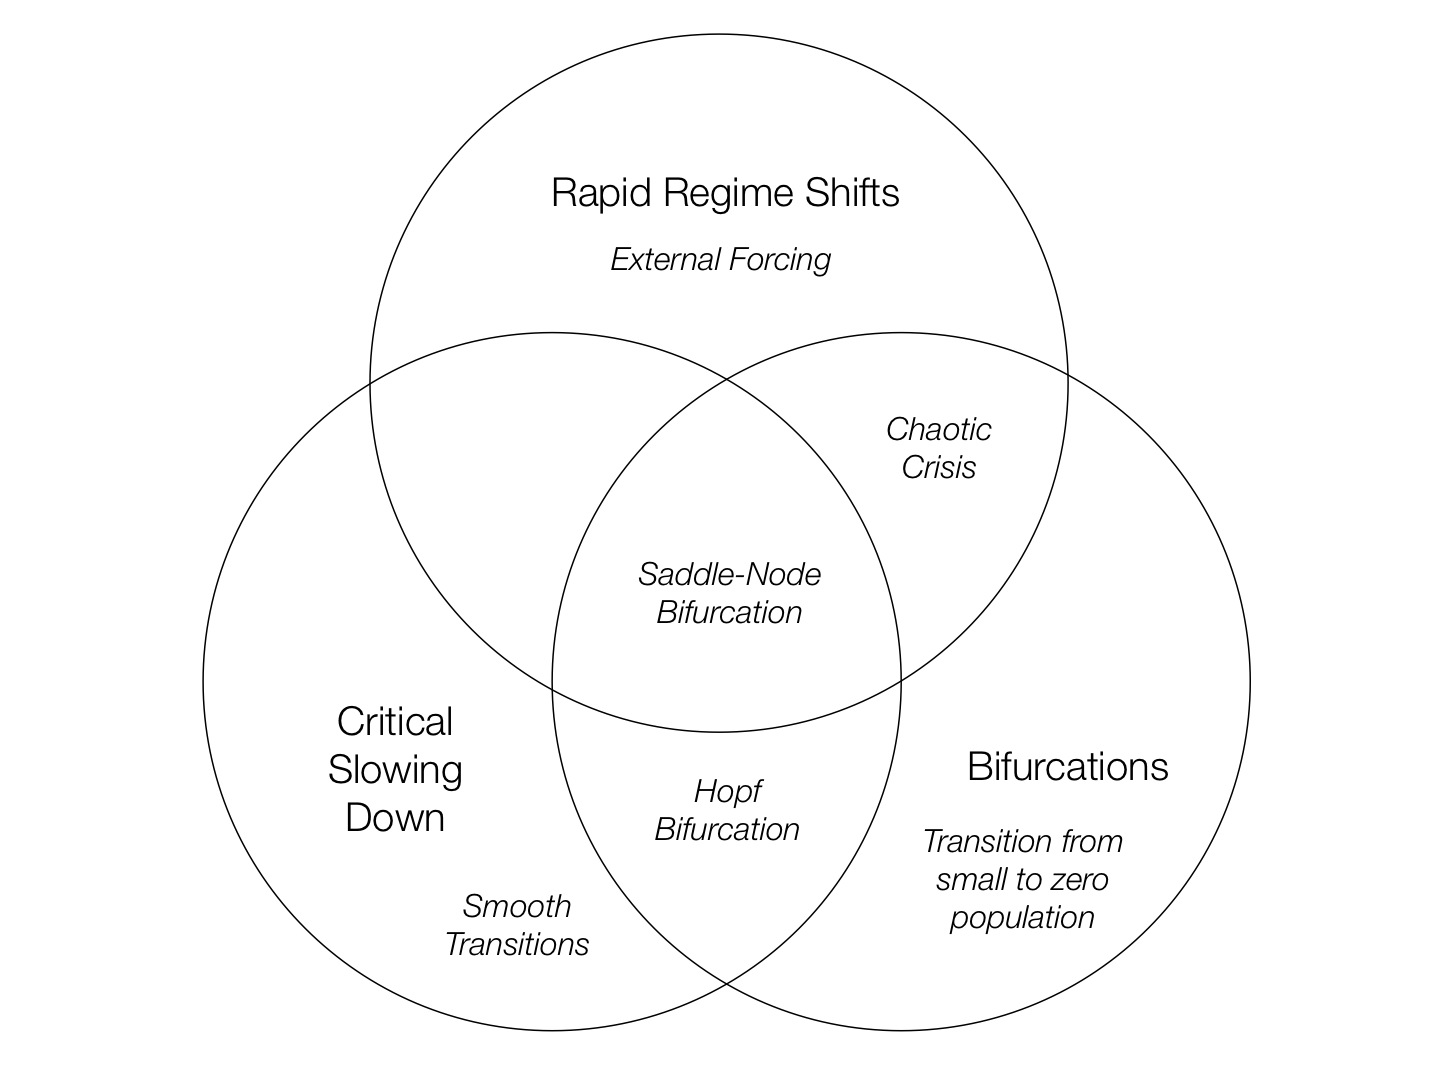
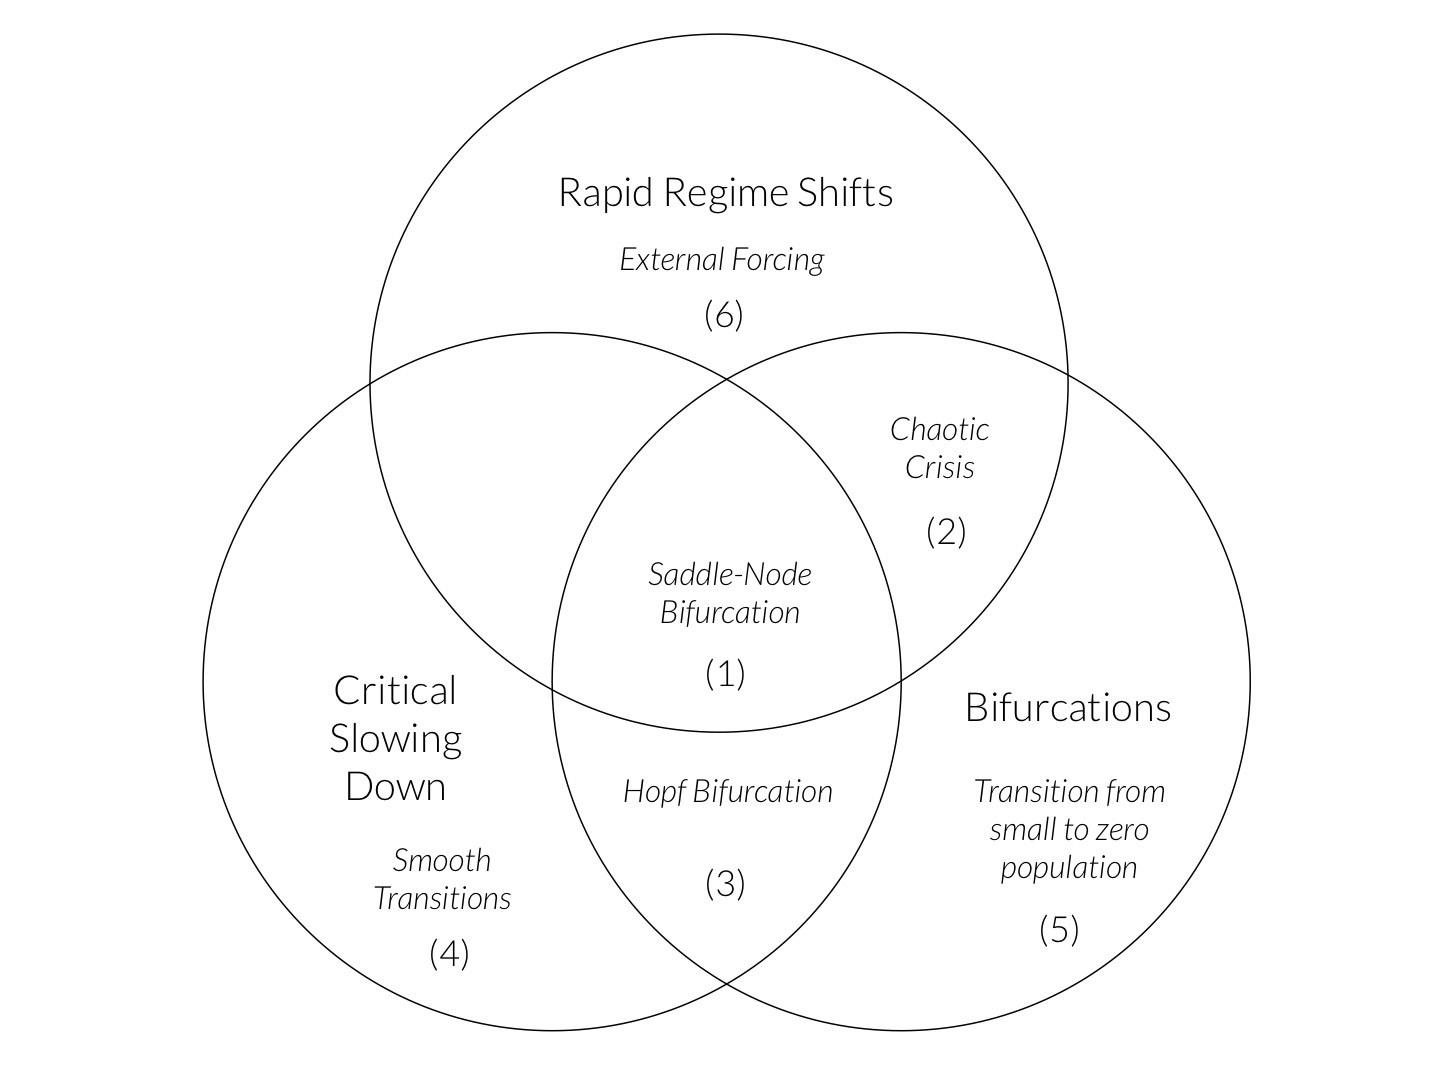
updated diagram, added section for no bifurcation

diff --git a/manuscript-w-refs.md b/manuscript-w-refs.md
@@ -18,7 +18,7 @@ have the right model -- and that meant having already had the chance to observe
 the transition (even then this remains a tough problem). One cogent early
 example (Ludwig et al. 1978) demonstrated how knowledge of the forms and time
 scales of interactions among insects, birds, and trees could lead to a
-qualitative model that predicted the possibility of essentially regime shifts.
+qualitative model that essentially predicted the possibility of regime shifts.
 
 Management of systems that could potentially undergo shifts requires balancing
 the costs of adaptation, mitigation or avoidance against the costs of the shift
@@ -38,7 +38,7 @@ the questions of when such generic signals would be valuable tools versus the
 need to develop system-specific approaches in all cases.
 
 Foundational research in early warning signals identified certain patterns such
-as which can accurately forecast a sudden transition in a wide variety of
+as those which can accurately forecast a sudden transition in a wide variety of
 systems (Scheffer et al. 2009). Most extensively researched is the phenomenon of
 critical slowing down (CSD), which is manifested as a pattern of increasing
 variance or autocorrelation of a system. Subsequent work has begun to identify a
@@ -70,23 +70,23 @@ Relationships between Critical Slowing Down, Bifurcations, and Regime Shifts
 
 ***A general thought while rewriting in this section. Whenever applicable,
 replace CSD with "early warning signal", to make the point that we are only
-using CSD as an example of possible warning signals***.
+using CSD as an example of possible warning signals.***. **Agreed**\*
 
 ***I think each of the sections could use a format of "what we expected", "what
 is surprising" and "more research to answer xyz". We kind of jump into each of
 the examples without a lot of "so what". Highlighting which areas of the diagram
-are most ripe for exploration would be particularly useful I think. -CB***\*
+are most ripe for exploration would be particularly useful I think. -CB***
 
-Critical slowing down has been studied extensively in theoretical (Wissel 1984,
-Gandhi et al. 1998, Carpenter et al. 2006, Hastings and Wysham 2010, Dakos et
-al. 2011a, Lade and Gross 2012, Boettiger and Hastings 2012a) and empirical
-contexts (Drake and Griffen 2010, Veraart et al. 2011, Carpenter 2011a, Dai et
-al. 2012, Wang et al. 2012) as a potential early warning signal for regime
-shifts. CSD occurs as a system's dominant eigenvalue approaches zero due to a
-changing (possibly deteriorating) environment. As the eigenvalue approaches
-zero, the system's response to small perturbations slows. This change in dynamic
-properties of a system can be expressed in greater variance, autocorrelation,
-and return time of observed state variables.
+Early warning signals such as CSD have been studied extensively in theoretical
+(Wissel 1984, Gandhi et al. 1998, Carpenter et al. 2006, Hastings and Wysham
+2010, Dakos et al. 2011a, Lade and Gross 2012, Boettiger and Hastings 2012a) and
+empirical contexts (Drake and Griffen 2010, Veraart et al. 2011, Carpenter
+2011a, Dai et al. 2012, Wang et al. 2012) as a potential early warning signal
+for regime shifts. CSD occurs as a system's dominant eigenvalue approaches zero
+due to a changing (possibly deteriorating) environment. As the eigenvalue
+approaches zero, the system's response to small perturbations slows. This change
+in dynamic properties of a system can be expressed in greater variance,
+autocorrelation, and return time of observed state variables.
 
 Figure 1 we illustrate the domains of overlap between three distinct phenomena.
 The first, *rapid regime shifts* are abrupt changes in system behavior. The
@@ -102,8 +102,8 @@ regions.
 shifts, bifurcations, and critical slowing down. Text in italic are example
 phenomena that occur in each domain.]
 
-Catastrophic Bifurcations Preceded by CSD
------------------------------------------
+Catastrophic Bifurcations Preceded by CSD (1)
+---------------------------------------------
 
 Much of the (most visible) recent research in early warning signals has focused
 on the center of the diagram, where all three concepts intersect. The warning
@@ -117,7 +117,7 @@ exhibiting a saddle-node bifurcation (Figure). Saddle-nodes are one of many
 potential bifurcations in ecological systems, though. Rapid regime shifts may
 also occur in the absence of bifurcations at all.
 
-***Insert figure of saddle-node bifurcation - NR***
+***Insert figure of saddle-node bifurcation(?) NR***
 
 Dai et al. (2012) clearly maps out the entire saddle-node bifurcation diagram
 empirically before presenting the corresponding decrease in recovery time
@@ -137,26 +137,37 @@ difficult to identify the bifurcation process, the system is understood well
 enough to anticipate that a sudden transition can be induced under the intended
 manipulation. Like the laboratory examples, this helps eliminate the options
 outside the circle "bifurcations", in Figure 1. The observed warning signals
-then place it in the center.
+then place it in the center of the diagram.
 
-Catastrophic Bifurcations *not* Preceded by CSD
------------------------------------------------
+While these studies have provided valuable demonstrations of the potential to
+find early warning signals of sudden transitions, this literature has begun to
+enumerate examples of similar tranistions in which no such signal is present.
+
+Catastrophic Bifurcations *not* Preceded by CSD (2)
+---------------------------------------------------
 
 Saddle nodes are only one of a variety of bifurcations which can cause rapid
 changes in system dynamics. Other bifurcations can cause long-term changes in
 system dynamics without a gradual pass through a state with zero eigenvalue, and
-therefore, not exhibit CSD.
+therefore, not exhibit CSD. Many of these examples can in fact show patterns in
+typical early warning indicator variables such as variance or autocorrelation
+that are completely opposite to the patterns seen above.
 
 These are some of the most problematic cases, because they represent disruptive
 but potentially avoidable events, but would not be detected by using CSD as an
 early warning signals.
+
+**\* Makes it sound like chaos is the only example. Chaos is dismissed by most
+ecologists as irrelevant, lacking evidence in most natural systems**\*
 
 One class of bifurcations in which we would not expect to see CSD prior to
 regime shift are sometimes known as *crises*. Crises are sudden changes in the
 dynamics of chaotic attractors that occur in response to small changes in
 parameters (Grebogi et al. 1983). Chaotic attractors are features of many
 ecological models (Hastings et al. 1993), and chaotic behavior has been shown in
-some ecological systems [@Constantino1997]
+some ecological systems [@Constantino1997]. Examples are not restricted to
+chaotic dynamics. Decreasing variance is observed before a sudden transition
+following a Hopf bifurcation in Schreiber and Rudolf (2008).
 
 Hastings and Wysham (2010) examined a continuous model of a stochastic
 three-species food chain where all species migrate between six patches. When
@@ -165,7 +176,7 @@ capacity) is low, all species coexist in a chaotic but stable attractor. A small
 increase in environmental stochasticity, though, causes extinction of the top
 predator and and rapid shift to a non-chaotic cycle. Despite an increase in
 environmental variability, neither the variance nor skew of the populations of
-any species change as the system approaches this bifurcation
+any species change as the system approaches this bifurcation.
 
 Another example of a chaotic crisis can be found in a simple discrete-time model
 where a population is subject to strong density dependence (an Allee effect) and
@@ -199,11 +210,8 @@ Such a transition occurs if the control parameter (e.g., rainfall), exceeds the
 individual location would undergo a saddle-node bifurcation, and thus the
 system's global dynamics would not exhibit CSD prior to such a transition.
 
-Non-Catastrophic Bifurcations Preceded by CSD
----------------------------------------------
-
-**TODO: Add a numeric reference connecting each section to a region of Figure
-1**
+Non-Catastrophic Bifurcations Preceded by CSD (3)
+-------------------------------------------------
 
 Not all regime shifts are rapid. Some systems undergo bifurcations between
 qualitatively different, but quantatively similar regimes. These transitions may
@@ -224,16 +232,6 @@ gradual as the cycle sizes grow from zero at the threshold value. In the
 presence of stochasticity, system behavior may be observed on either side of the
 threshold may be indistinguishable.
 
-![Figure 4: A system where critical slowing down is observed without a critical
-threshold, from Kéfi et al. (2012). In this model, prey have logistic growth and
-are subject to predation with a Type III functional response, but there is no
-bifurcation. Instead, average prey population exhibits a smooth response to
-increased predation. Left: The population level as a function of predation rate.
-Middle: Variance of the prey population level. Note that it increases during the
-transition, despite no bifurcation. Right: Lag-1 Autocorrelation in prey
-population dynamics as predation rate increases. Note that it, too, increases
-despite the lack of a bifurcation]
-
 The system's eigenvalue also passes through zero in the case of the
 transcritical bifurcation. The transcritical is a degenerate case of the the
 saddle-node, and occurs in many of the same systems. However, when a system
@@ -250,23 +248,39 @@ bifurcation by reducing food supplies and driving population growth rates below
 zero. Indicators of CSD (variation, skewness, autocorrelation, and spatial
 correlation) increased prior to collapse of the population.
 
-Non-Catastrophic Bifurcations without CSD
------------------------------------------
+CSD in the absence of bifurcations or regime shifts. (4)
+--------------------------------------------------------
 
-**TODO: Add a numeric reference connecting each section to a region of Figure
-1**
+Critical slowing down may appear in systems without any bifurcations. Kéfi et
+al. (2012) showed that smooth transitions that modify a system's potential and
+decrease the value of its dominant eigenvalue will result in longer return times
+and greater variance and autocorrelation in system behavior (See Figure 4). When
+the transition between states is smooth, these measures will exhibit a smooth
+increase to a maximum and then a decrease, unlike the sharp peaks found in
+systems with bifurcations. Nonetheless, both exhibit increasing measures of CSD
+which may be indistinguishable.
 
-Some bifurcations are much more mundane, involving neither catastrophic shifts
-or patterns of critical slowing down.
+![Figure 4: A system where critical slowing down is observed without a critical
+threshold, from Kéfi et al. (2012). In this model, prey have logistic growth and
+are subject to predation with a Type III functional response, but there is no
+bifurcation. Instead, average prey population exhibits a smooth response to
+increased predation. Left: The population level as a function of predation rate.
+Middle: Variance of the prey population level. Note that it increases during the
+transition, despite no bifurcation. Right: Lag-1 Autocorrelation in prey
+population dynamics as predation rate increases. Note that it, too, increases
+despite the lack of a bifurcation]
 
-**TODO: Anything here? Beyond a trivial change from positive to zero
-population**
+Non-Catastrophic Bifurcations without CSD (5)
+---------------------------------------------
 
-Catastrophic Regime Shifts without Bifurcations or CSD
-------------------------------------------------------
+Some bifurcations involving neither catastrophic shifts or patterns of critical
+slowing down. The transition from very small populations to zero is one such
+transition. System behavior after extinction is clearly different, and exhibits
+hysteresis. However, the transition, while not smooth, is not due to a
+saddle-node or similar bifurcation, and CSD would not be expected.
 
-**TODO: Add a numeric reference connecting each section to a region of Figure
-1**
+Catastrophic Regime Shifts without Bifurcations or CSD (6)
+----------------------------------------------------------
 
 Some rapid regime shifts are not due to bifurcations at all. A large external
 forcing (as illustrated in Figure 5) may change the behavior of a system without
@@ -285,10 +299,10 @@ environment (e.g. annual mean temperature) whose slow change could lead to a
 sudden shift. A direct disturbance to the system state (e.g. population size,
 vertical axis) could also cause a transition if it is large enough to cross the
 stability threshold (dashed line). Such a perturbation can come from exogenous
-factors such as anthropogenic pressures or occur by chance from intrisic
+factors such as anthropogenic pressures or occur by chance from intrinsic
 stochasticity. These distinct mechanisms of disturbance and environmental change
-are coupled -- as the environment detiorates moving the system left on the
-diagram, the probability that a distrubance crosses the threshold increases.
+are coupled -- as the environment deteriorates moving the system left on the
+diagram, the probability that a disturbance crosses the threshold increases.
 From Bel et al. (2012).]
 
 Large, rapid changes in external conditions will result in rapid changes in
@@ -332,6 +346,8 @@ shorter ones. We would not expect such regime shifts to be preceded with CSD.
 
 Detecting Early Warning Signals
 ===============================
+
+***This section does not feel connected to the rest of the paper -CB***
 
 The usefulness of early warning signals depends not just on their applicability
 to particular systems, but also on the their statistical power. A warning signal
@@ -742,7 +758,7 @@ of mathematical biology 70:1013–31.
   vertical axis) could also cause a transition if it is large enough to cross
   the stability threshold (dashed line). Such a perturbation can come from
   exogenous factors such as anthropogenic pressures or occur by chance from
-  intrisic stochasticity. These distinct mechanisms of disturbance and
-  environmental change are coupled -- as the environment detiorates moving the
-  system left on the diagram, the probability that a distrubance crosses the
+  intrinsic stochasticity. These distinct mechanisms of disturbance and
+  environmental change are coupled -- as the environment deteriorates moving the
+  system left on the diagram, the probability that a disturbance crosses the
   threshold increases. From Bel et al. (2012).]: Bel2012example.png

diff --git a/manuscript.md b/manuscript.md
@@ -99,8 +99,8 @@ regions.
 shifts, bifurcations, and critical slowing down. Text in italic are example
 phenomena that occur in each domain.](ews-venn.jpg)
 
-Catastrophic Bifurcations Preceded by CSD
------------------------------------------
+Catastrophic Bifurcations Preceded by CSD (1)
+---------------------------------------------
 
 Much of the (most visible) recent research in early warning signals
 has focused on the center of the diagram, where all three concepts
@@ -140,8 +140,8 @@ While these studies have provided valuable demonstrations of the potential to fi
 early warning signals of sudden transitions, this literature has begun to enumerate
 examples of similar tranistions in which no such signal is present.  
 
-Catastrophic Bifurcations *not* Preceded by CSD
------------------------------------------------
+Catastrophic Bifurcations *not* Preceded by CSD (2)
+---------------------------------------------------
 
 Saddle nodes are only one of a variety of bifurcations which can cause rapid
 changes in system dynamics. Other bifurcations can cause long-term changes in
@@ -209,10 +209,9 @@ transition occurs if the control parameter (e.g., rainfall), exceeds the
 location would undergo a saddle-node bifurcation, and thus the system's global
 dynamics would not exhibit CSD prior to such a transition.
 
-Non-Catastrophic Bifurcations Preceded by CSD
----------------------------------------------
+Non-Catastrophic Bifurcations Preceded by CSD  (3)
+----------------------------------------------------
 
-**TODO: Add a numeric reference connecting each section to a region of Figure 1**
 
 Not all regime shifts are rapid. Some systems undergo bifurcations between
 qualitatively different, but quantatively similar regimes. These transitions may
@@ -232,16 +231,6 @@ from stable equilibrium to cycles is gradual as the cycle sizes grow from zero
 at the threshold value. In the presence of stochasticity, system behavior may be
 observed on either side of the threshold may be indistinguishable.
 
-![Figure 4: A system where critical slowing down is observed without
-a critical threshold, from @Kefi2012. In this model, prey have logistic growth
-and are subject to predation with a Type III functional response, but there is
-no bifurcation. Instead, average prey population exhibits a smooth response to
-increased predation. Left: The population level as a function of predation rate.
-Middle: Variance of the prey population level. Note that it increases during the
-transition, despite no bifurcation. Right: Lag-1 Autocorrelation in prey
-population dynamics as predation rate increases. Note that it, too, increases
-despite the lack of a bifurcation](kefi-fig.png) 
-
 The system's eigenvalue also passes through zero in the case of the
 transcritical bifurcation. The transcritical is a degenerate case of the the
 saddle-node, and occurs in many of the same systems. However, when a system
@@ -258,23 +247,29 @@ reducing food supplies and driving population growth rates below zero.
 Indicators of CSD (variation, skewness, autocorrelation, and spatial
 correlation) increased prior to collapse of the population.
 
-Non-Catastrophic Bifurcations without CSD
------------------------------------------
+CSD in the absence of bifurcations or regime shifts. (4)
+-------------------------------------------------------
 
-**TODO: Add a numeric reference connecting each section to a region of Figure
-1**
+Critical slowing down may appear in systems without any bifurcations.  @Kefi2012 showed that smooth transitions that modify a system's potential and decrease the value of its dominant eigenvalue will result in longer return times and greater variance and autocorrelation in system behavior (See Figure 4).  When the transition between states is smooth, these measures will exhibit a smooth increase to a maximum and then a decrease, unlike the sharp peaks found in systems with bifurcations.  Nonetheless, both exhibit increasing measures of CSD which may be indistinguishable.
 
-Some bifurcations are much more mundane, involving neither catastrophic shifts
-or patterns of critical slowing down.
+![Figure 4: A system where critical slowing down is observed without
+a critical threshold, from @Kefi2012. In this model, prey have logistic growth
+and are subject to predation with a Type III functional response, but there is
+no bifurcation. Instead, average prey population exhibits a smooth response to
+increased predation. Left: The population level as a function of predation rate.
+Middle: Variance of the prey population level. Note that it increases during the
+transition, despite no bifurcation. Right: Lag-1 Autocorrelation in prey
+population dynamics as predation rate increases. Note that it, too, increases
+despite the lack of a bifurcation](kefi-fig.png)
 
-**TODO: Anything here? Beyond a trivial change from positive to zero
-population**
+Non-Catastrophic Bifurcations without CSD (5)
+----------------------------------------------
 
-Catastrophic Regime Shifts without Bifurcations or CSD
-------------------------------------------------------
+Some bifurcations involving neither catastrophic shifts
+or patterns of critical slowing down.  The transition from very small populations to zero is one such transition.  System behavior after extinction is clearly different, and exhibits hysteresis.  However, the transition, while not smooth, is not due to a saddle-node or similar bifurcation, and CSD would not be expected.
 
-**TODO: Add a numeric reference connecting each section to a region of Figure
-1**
+Catastrophic Regime Shifts without Bifurcations or CSD  (6)
+------------------------------------------------------------
 
 Some rapid regime shifts are not due to bifurcations at all. A large external
 forcing (as illustrated in Figure 5) may change the behavior of a system without
@@ -293,10 +288,10 @@ environment (e.g. annual mean temperature) whose slow change could lead to a
 sudden shift. A direct disturbance to the system state (e.g. population size,
 vertical axis) could also cause a transition if it is large enough to cross the
 stability threshold (dashed line). Such a perturbation can come from exogenous
-factors such as anthropogenic pressures or occur by chance from intrisic
+factors such as anthropogenic pressures or occur by chance from intrinsic
 stochasticity. These distinct mechanisms of disturbance and environmental change
-are coupled -- as the environment detiorates moving the system left on the
-diagram, the probability that a distrubance crosses the threshold increases.
+are coupled -- as the environment deteriorates moving the system left on the
+diagram, the probability that a disturbance crosses the threshold increases.
 From @Bel2012.](Bel2012example.png)
 
 Large, rapid changes in external conditions will result in rapid changes in
